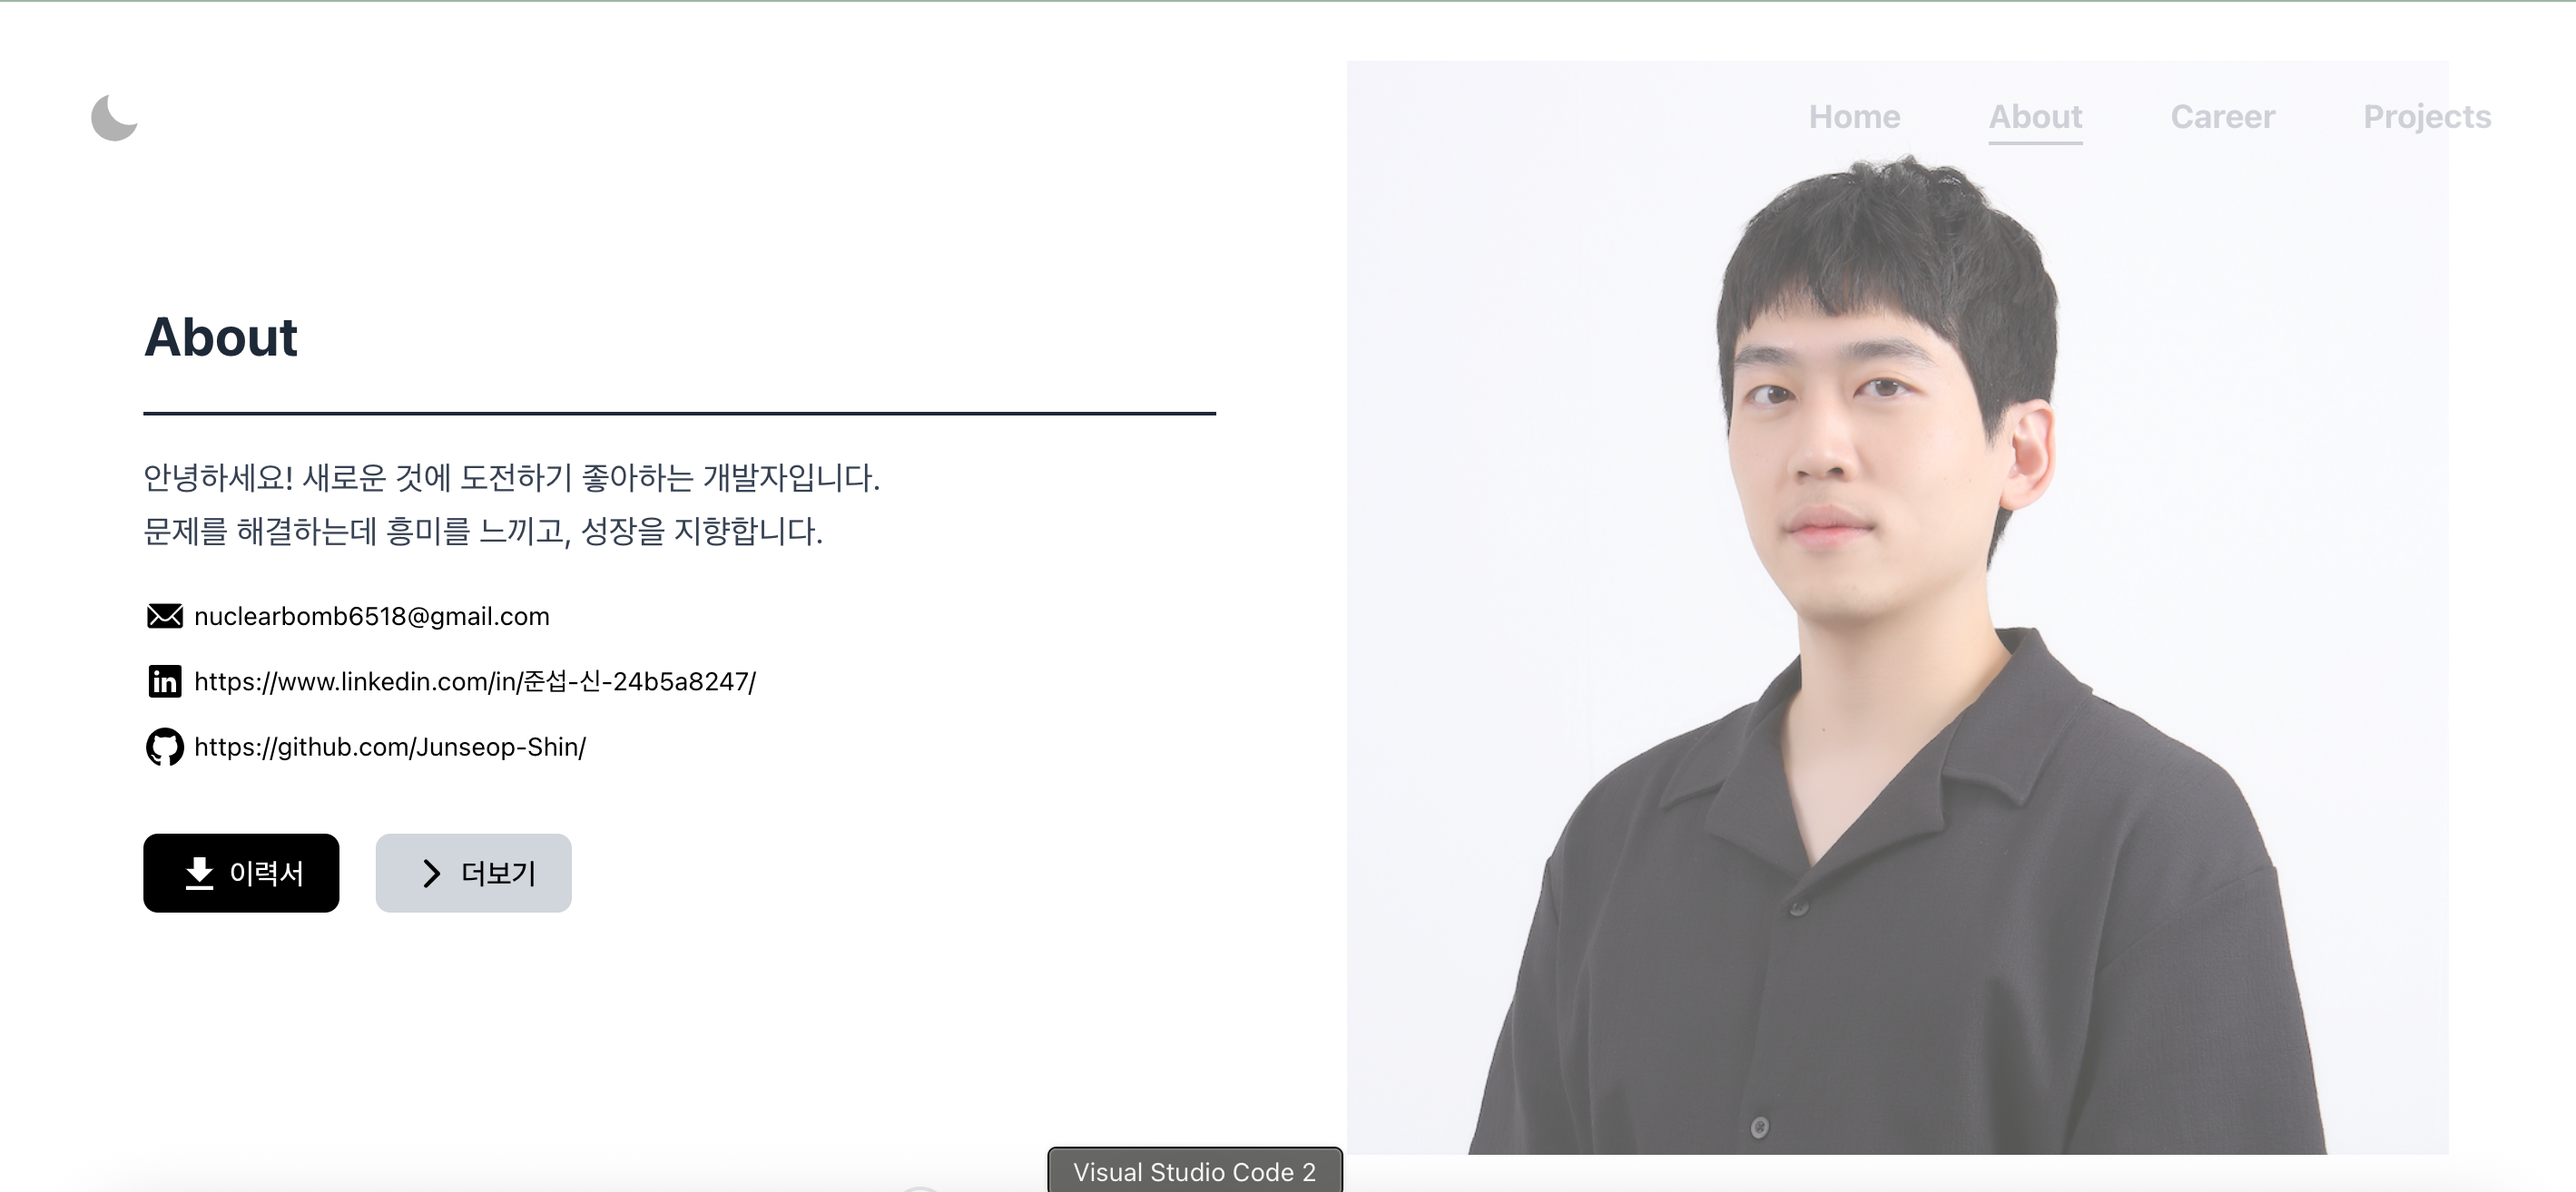
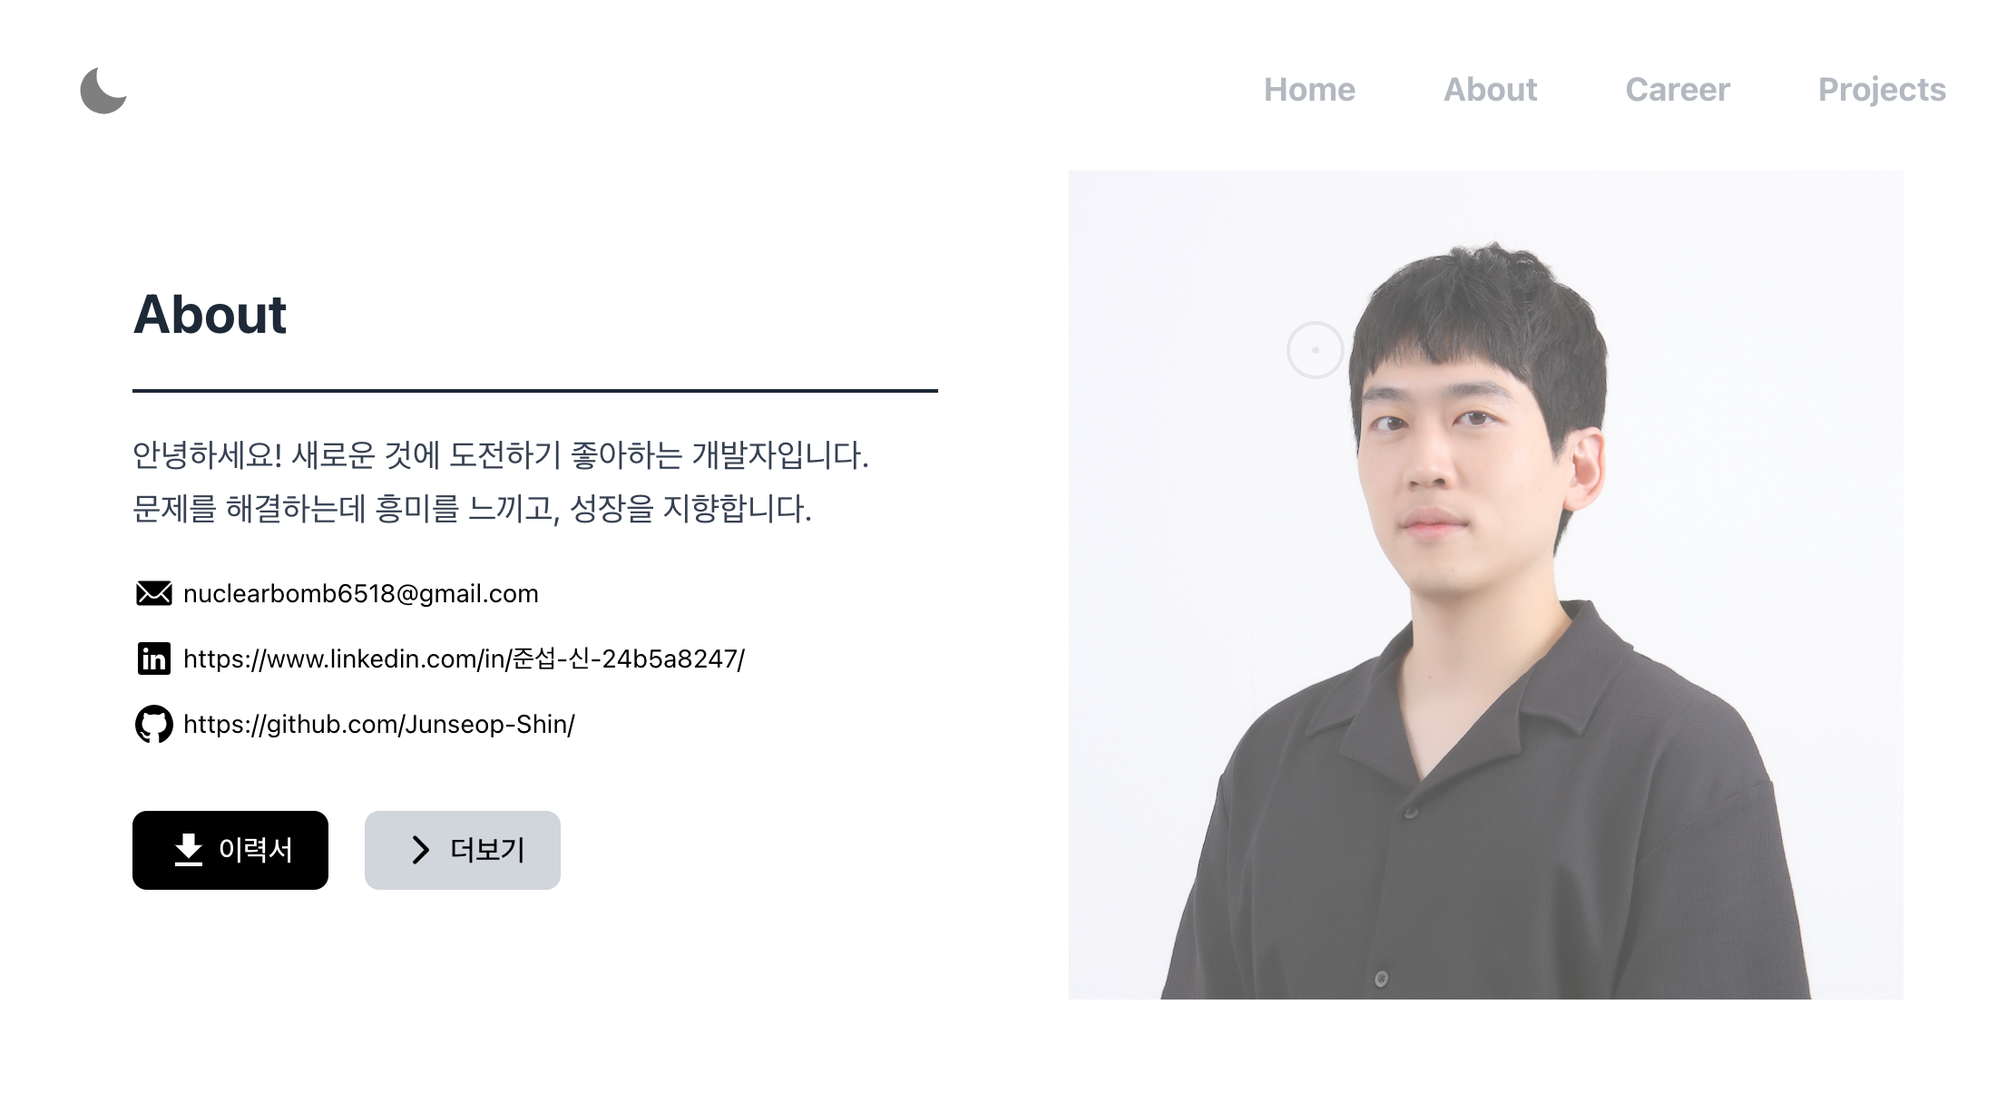
[bugfix] no_image_available 추가 - profile 이미지 수정 - projects 이미지 no_image_available 처리

diff --git a/src/assets/projects.ts b/src/assets/projects.ts
@@ -35,6 +35,7 @@ export const projects: Project[] = [
       "구글 firebase를 이용한 배포",
     ],
   },
+
   {
     type: "personal",
     title: "BOLD 웹페이지",
@@ -55,6 +56,7 @@ export const projects: Project[] = [
       "Vercel을 이용한 배포",
     ],
   },
+
   {
     type: "work",
     title: "Ax",
@@ -62,7 +64,7 @@ export const projects: Project[] = [
     date: "2023.09 ~ 2023.12",
     skills: "React, TypeScript, Styled-Components, SWR, Redux",
     link: "ax",
-    image: "vite.svg",
+    image: "no_image_available.jpg",
     subProjects: [
       {
         type: "work",
@@ -109,6 +111,7 @@ export const projects: Project[] = [
       },
     ],
   },
+
   {
     type: "work",
     title: "웹오피스",
@@ -116,7 +119,7 @@ export const projects: Project[] = [
     date: "2022.02 ~ 2023.09",
     skills: "React, TypeScript, MobX, sass, eslint, prettier, jest, webpack",
     link: "weboffice",
-    image: "vite.svg",
+    image: "no_image_available.jpg",
     subProjects: [
       {
         type: "work",
@@ -168,6 +171,7 @@ export const projects: Project[] = [
       },
     ],
   },
+
   {
     type: "work",
     title: "오피스",
@@ -175,7 +179,7 @@ export const projects: Project[] = [
     date: "2020.02 ~ 2022.02",
     skills: "C++, OOXML, MVC 패턴",
     link: "office",
-    image: "vite.svg",
+    image: "no_image_available.jpg",
     subProjects: [
       {
         type: "work",

diff --git a/src/components/About.tsx b/src/components/About.tsx
@@ -97,7 +97,7 @@ const AboutSection: React.FC = () => {
           <img
             src="/about.png"
             alt="Profile"
-            className="w-fit h-fit rounded-r-lg p-8 opacity-70"
+            className="w-fit h-fit p-8 opacity-70"
           />
           <AboutDetail
             isOpened={isAboutDetailOpen}
